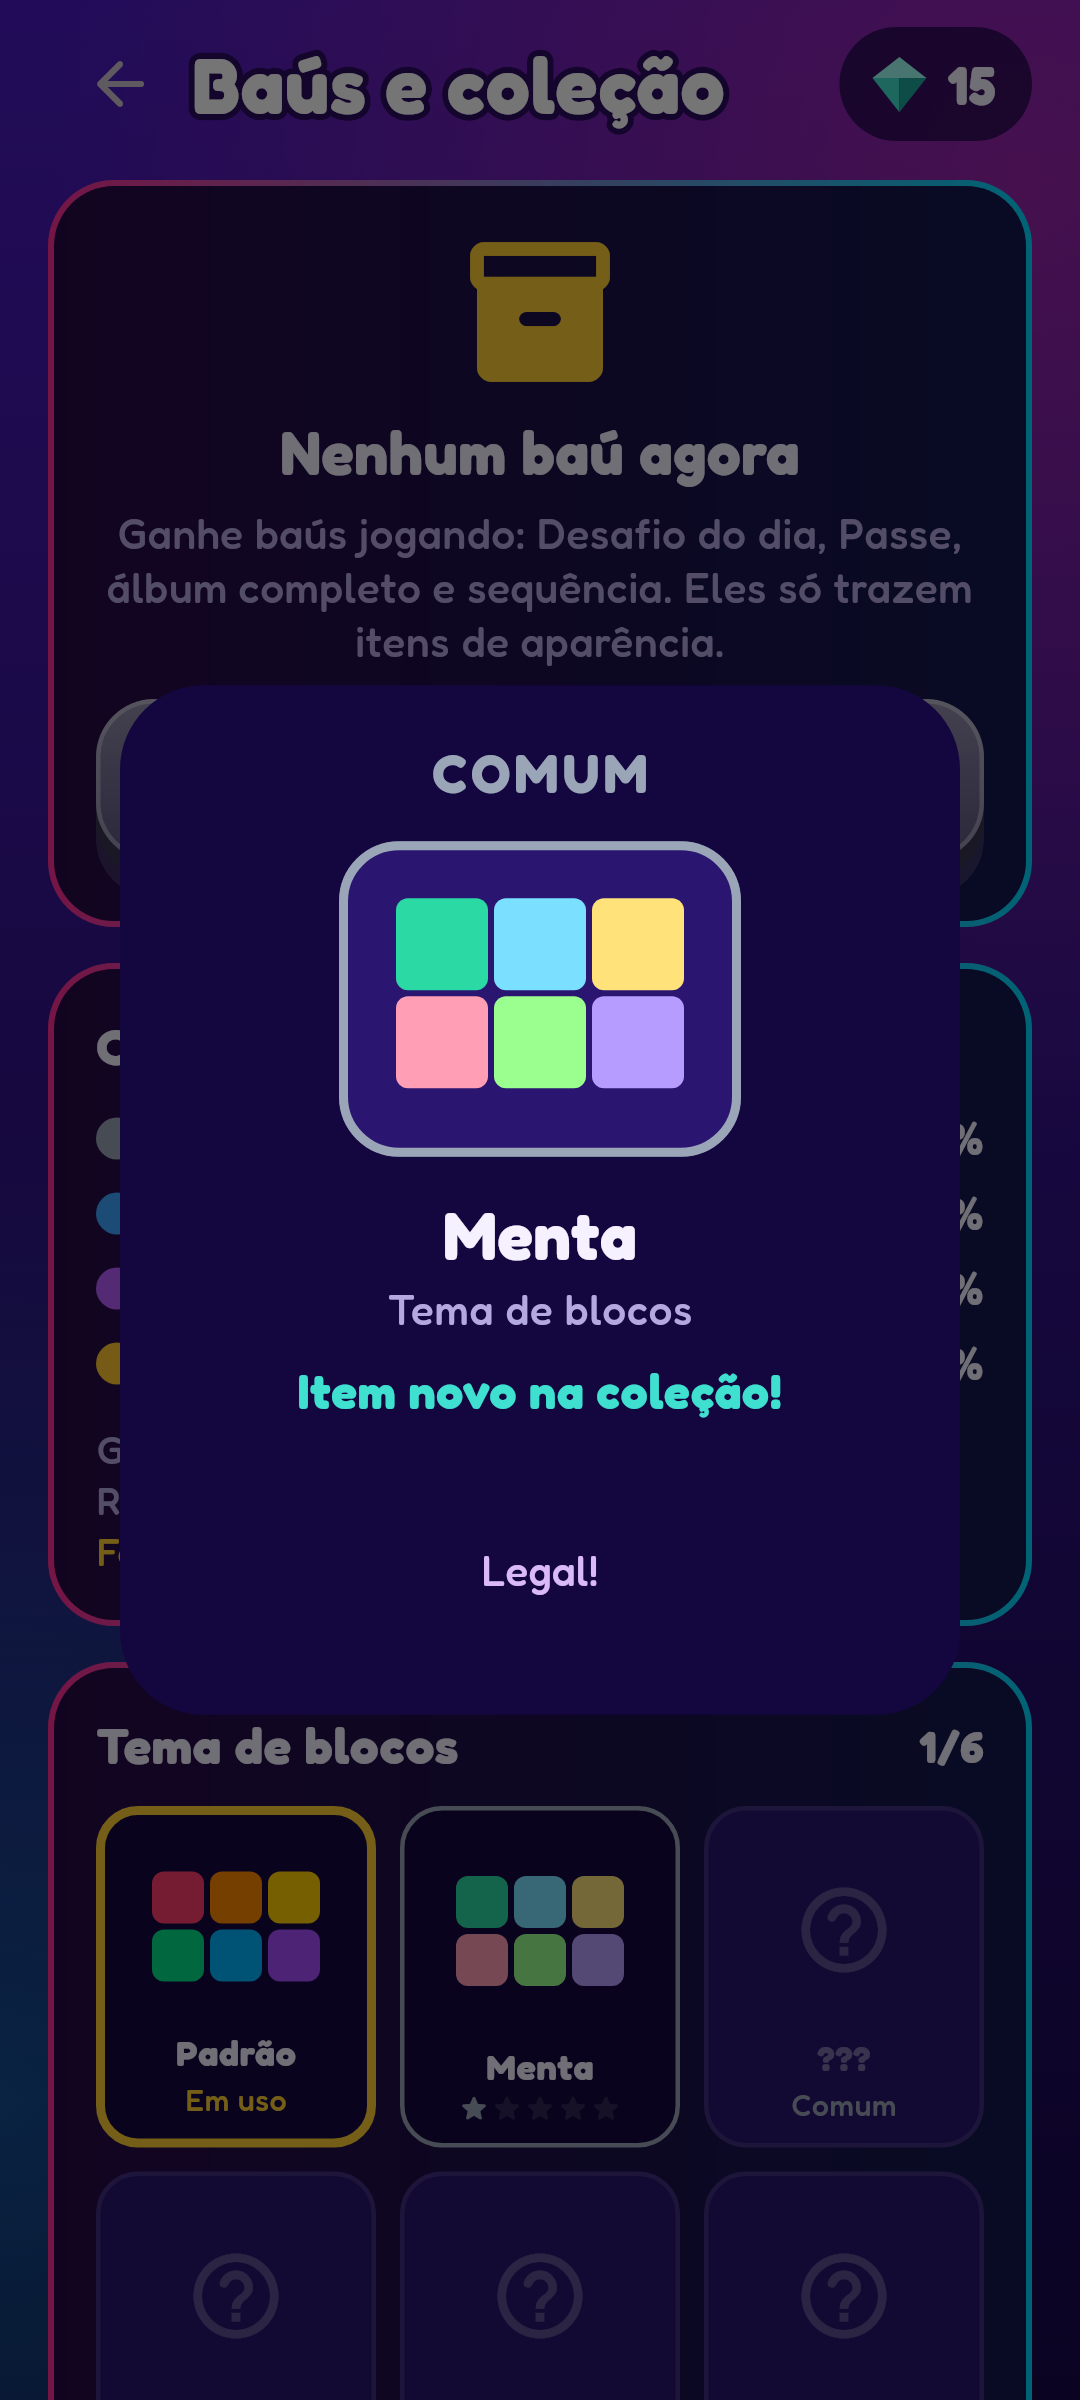
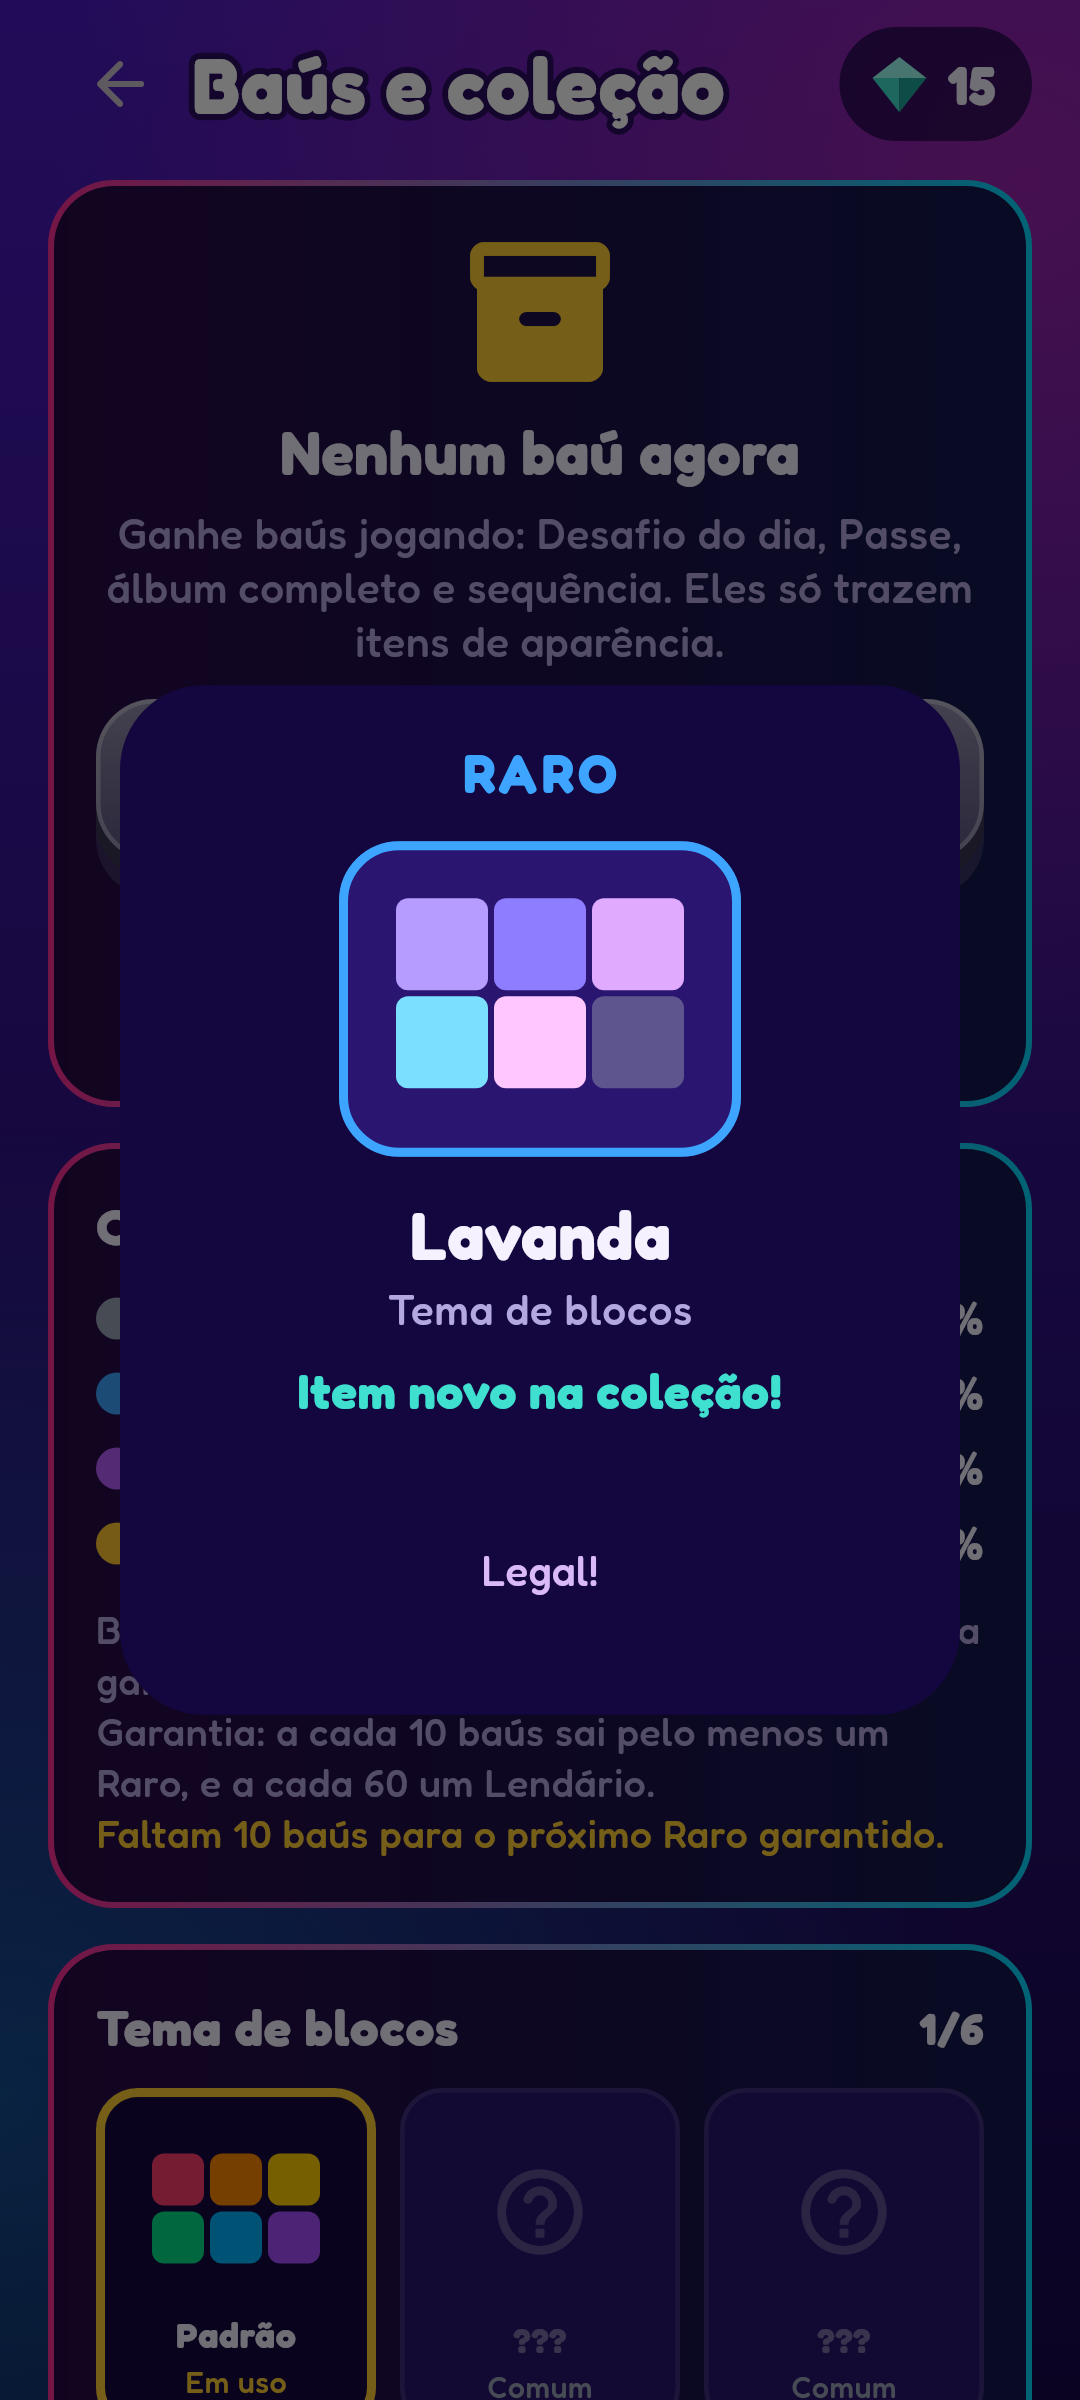
Baú de anúncio: até 3 por dia, só itens Comuns, grátis no Encaixa+
- Ver um anúncio com recompensa abre na hora um baú comum; não gasta baú guardado nem conta na garantia
- Limite diário, anúncio indisponível não abre, Encaixa+ abre sem anúncio; comum repetido no máximo vira 5 gemas
- Em inglês e espanhol; testes de regra e de tela; captura 44; versionCode 17

Claude-Session: https://claude.ai/code/session_0113qfSKSdakLn1Fz3YtvNms

diff --git a/app/test/baus_test.dart b/app/test/baus_test.dart
@@ -2,6 +2,7 @@ import 'package:encaixa/idioma.dart';
 import 'package:encaixa/jogo/bau.dart';
 import 'package:encaixa/jogo/sorteio.dart';
 import 'package:encaixa/jogo/temas.dart';
+import 'package:encaixa/servicos/anuncios.dart';
 import 'package:encaixa/servicos/codigo_progresso.dart';
 import 'package:encaixa/telas/baus_tela.dart';
 import 'package:encaixa/tema.dart';
@@ -203,6 +204,85 @@ void main() {
     });
   });
 
+  group('baú de anúncio', () {
+    test('só sai item Comum, não gasta baú guardado e não mexe na garantia', () async {
+      final s = await servicosDeTeste(valores: {'baus': 2, 'bauSemRaro': 6, 'bauSemLendario': 30});
+      final p = s.progresso;
+      for (var i = 0; i < bausDeAnuncioPorDia; i++) {
+        final r = (await p.abrirBauDeAnuncio(20261112, semente: 100 + i))!;
+        expect(r.item.raridade, Raridade.comum);
+      }
+      expect(p.baus, 2, reason: 'os baús guardados continuam lá');
+      expect(p.estadoDoBau.semRaro, 6, reason: 'não conta na garantia');
+      expect(p.estadoDoBau.semLendario, 30);
+      expect(p.bausAbertos, bausDeAnuncioPorDia);
+    });
+
+    test('limite diário e volta no dia seguinte', () async {
+      final s = await servicosDeTeste();
+      final p = s.progresso;
+      for (var i = 0; i < bausDeAnuncioPorDia; i++) {
+        expect(p.podeAbrirBauDeAnuncio(20261112), isTrue);
+        await p.abrirBauDeAnuncio(20261112, semente: i);
+      }
+      expect(p.podeAbrirBauDeAnuncio(20261112), isFalse);
+      expect(await p.abrirBauDeAnuncio(20261112), isNull);
+      expect(p.podeAbrirBauDeAnuncio(20261113), isTrue);
+    });
+
+    test('comum repetido no nível máximo vira 5 gemas', () async {
+      final comuns = ItensDeBau.da(Raridade.comum);
+      final s = await servicosDeTeste(
+        valores: {
+          'gemas': 0,
+          'bauItens': [for (final i in comuns) '${i.id}:$nivelMaximoDoItem'],
+        },
+      );
+      final r = (await s.progresso.abrirBauDeAnuncio(20261112, semente: 3))!;
+      expect(r.gemas, Raridade.comum.gemasDeRepetido);
+      expect(s.progresso.gemas, Raridade.comum.gemasDeRepetido);
+    });
+
+    testWidgets('na tela: vê o anúncio e abre; anúncio indisponível não abre; Encaixa+ abre sem anúncio', (
+      tester,
+    ) async {
+      telaDeCelular(tester, tamanho: const Size(360, 900));
+      final anuncios = _AnunciosFalsos();
+      final s = await servicosDeTeste(anuncios: anuncios);
+      await tester.pumpWidget(appDeTeste(s, tela: BausTela(servicos: s)));
+      await tester.pump(const Duration(seconds: 1));
+      expect(find.textContaining('Ver anúncio: baú comum'), findsOneWidget);
+      anuncios.disponivel = false;
+      await tester.tap(find.textContaining('Ver anúncio: baú comum'));
+      await tester.pump(const Duration(milliseconds: 400));
+      expect(s.progresso.bausAbertos, 0, reason: 'sem anúncio, sem baú');
+      expect(find.text('Anúncio indisponível agora. Tente de novo.'), findsOneWidget);
+      anuncios.disponivel = true;
+      await tester.pump(const Duration(seconds: 5));
+      await tester.tap(find.textContaining('Ver anúncio: baú comum'));
+      await tester.pump(const Duration(milliseconds: 400));
+      await tester.pump(const Duration(seconds: 2));
+      await tester.pump(const Duration(milliseconds: 300));
+      expect(anuncios.vistos, 1);
+      expect(s.progresso.bausAbertos, 1);
+      await capturar(tester, '44-bau-de-anuncio');
+      await tester.tap(find.text('Legal!'));
+      await tester.pumpAndSettle();
+
+      await s.progresso.definirAssinante(true);
+      await tester.pump();
+      expect(find.textContaining('Baú comum grátis (Encaixa+)'), findsOneWidget);
+      await tester.tap(find.textContaining('Baú comum grátis (Encaixa+)'));
+      await tester.pump(const Duration(milliseconds: 400));
+      await tester.pump(const Duration(seconds: 2));
+      await tester.pump(const Duration(milliseconds: 300));
+      expect(anuncios.vistos, 1, reason: 'assinante não vê anúncio');
+      expect(s.progresso.bausAbertos, 2);
+      await tester.tap(find.text('Legal!'));
+      await tester.pumpAndSettle();
+    });
+  });
+
   testWidgets('tela dos baús e a abertura (visual, em português e inglês)', (tester) async {
     for (final (idioma, nome) in [('pt', '40-baus'), ('en', '41-baus-en')]) {
       Idioma.atual = idioma;
@@ -243,3 +323,20 @@ void main() {
 }
 
 const niveisDoPasseParaTeste = 20;
+
+class _AnunciosFalsos implements Anuncios {
+  bool disponivel = true;
+  int vistos = 0;
+
+  @override
+  Future<void> iniciar() async {}
+
+  @override
+  Future<bool> mostrarPremiado() async {
+    if (disponivel) vistos++;
+    return disponivel;
+  }
+
+  @override
+  Future<void> talvezIntersticial({required int partidasJogadas}) async {}
+}

diff --git a/app/lib/telas/baus_tela.dart b/app/lib/telas/baus_tela.dart
@@ -5,6 +5,7 @@ import 'package:material_ui/material_ui.dart';
 
 import '../app.dart';
 import '../idioma.dart';
+import '../jogo/sorteio.dart';
 import '../jogo/bau.dart';
 import '../servicos/servicos.dart';
 import '../tema.dart';
@@ -35,10 +36,35 @@ class _BausTelaState extends State<BausTela> {
     });
   }
 
+  int get _dia => Sorteio.sementeDoDia(_s.hoje());
+
+  Future<void> _abrirDeAnuncio() async {
+    final p = _s.progresso;
+    if (_abrindo || !p.podeAbrirBauDeAnuncio(_dia)) return;
+    setState(() => _abrindo = true);
+    // Quem tem o Encaixa+ abre sem ver o anúncio.
+    if (!p.assinante && !await _s.anuncios.mostrarPremiado()) {
+      if (mounted) {
+        ScaffoldMessenger.of(context)
+          ..clearSnackBars()
+          ..showSnackBar(SnackBar(content: Text(t('Anúncio indisponível agora. Tente de novo.'))));
+        setState(() => _abrindo = false);
+      }
+      return;
+    }
+    final resultado = await p.abrirBauDeAnuncio(_dia);
+    await _mostrar(resultado);
+  }
+
   Future<void> _abrir() async {
     if (_abrindo || _s.progresso.baus <= 0) return;
     setState(() => _abrindo = true);
-    final resultado = await _s.progresso.abrirBauDeItens();
+    await _mostrar(await _s.progresso.abrirBauDeItens());
+  }
+
+  Future<void> _mostrar(
+    ({ItemDeBau item, int nivelAntes, int nivelDepois, int gemas, bool garantido})? resultado,
+  ) async {
     if (!mounted) return;
     if (resultado != null) {
       HapticFeedback.mediumImpact();
@@ -108,6 +134,24 @@ class _BausTelaState extends State<BausTela> {
                           tamanhoTexto: 20,
                           aoTocar: p.baus > 0 && !_abrindo ? _abrir : null,
                         ),
+                        const SizedBox(height: 10),
+                        OutlinedButton.icon(
+                          style: OutlinedButton.styleFrom(minimumSize: const Size(64, 50)),
+                          onPressed: p.podeAbrirBauDeAnuncio(_dia) && !_abrindo ? _abrirDeAnuncio : null,
+                          icon: Icon(p.assinante ? Icons.workspace_premium_rounded : Icons.smart_display_rounded),
+                          label: Text(
+                            p.podeAbrirBauDeAnuncio(_dia)
+                                ? (p.assinante
+                                      ? t('Baú comum grátis (Encaixa+) · {0} hoje', [
+                                          bausDeAnuncioPorDia - p.bausDeAnuncioNoDia(_dia),
+                                        ])
+                                      : t('Ver anúncio: baú comum · {0} hoje', [
+                                          bausDeAnuncioPorDia - p.bausDeAnuncioNoDia(_dia),
+                                        ]))
+                                : t('Volte amanhã para mais baús comuns'),
+                            textAlign: TextAlign.center,
+                          ),
+                        ),
                       ],
                     ),
                   ),
@@ -162,6 +206,10 @@ class _Chances extends StatelessWidget {
           ),
         ),
       const SizedBox(height: 8),
+      Text(
+        t('Baú de anúncio: só itens Comuns, e não conta na garantia.'),
+        style: const TextStyle(fontSize: 13, height: 1.3, color: Cores.textoFraco),
+      ),
       Text(
         t('Garantia: a cada {0} baús sai pelo menos um Raro, e a cada {1} um Lendário.', [
           garantiaRaro,

diff --git a/app/lib/servicos/progresso.dart b/app/lib/servicos/progresso.dart
@@ -425,19 +425,41 @@ class Progresso extends ChangeNotifier {
   EstadoDoBau get estadoDoBau =>
       EstadoDoBau(semRaro: _prefs.getInt('bauSemRaro') ?? 0, semLendario: _prefs.getInt('bauSemLendario') ?? 0);
 
+  /// Baús de anúncio já abertos hoje (limite: [bausDeAnuncioPorDia]).
+  int bausDeAnuncioNoDia(int dia) => _prefs.getInt('bauAnuncioDia') == dia ? (_prefs.getInt('bauAnuncioQtd') ?? 0) : 0;
+
+  bool podeAbrirBauDeAnuncio(int dia) => bausDeAnuncioNoDia(dia) < bausDeAnuncioPorDia;
+
+  /// Abre um baú de anúncio (só itens Comuns). O chamador já mostrou o anúncio (quem tem Encaixa+ não vê).
+  /// `null` se já abriu todos de hoje.
+  Future<({ItemDeBau item, int nivelAntes, int nivelDepois, int gemas, bool garantido})?> abrirBauDeAnuncio(
+    int dia, {
+    int? semente,
+  }) async {
+    if (!podeAbrirBauDeAnuncio(dia)) return null;
+    await _prefs.setInt('bauAnuncioDia', dia);
+    await _prefs.setInt('bauAnuncioQtd', bausDeAnuncioNoDia(dia) + 1);
+    return _abrir(sortearBauComum(Sorteio(semente ?? DateTime.now().microsecondsSinceEpoch), estadoDoBau));
+  }
+
   /// Abre um baú: sorteia, guarda o item (ou sobe o nível; no máximo vira gemas) e conta a garantia.
   /// `null` se não há baú. [semente] só serve para os testes.
   Future<({ItemDeBau item, int nivelAntes, int nivelDepois, int gemas, bool garantido})?> abrirBauDeItens({
     int? semente,
   }) async {
     if (baus <= 0) return null;
-    final r = sortearBau(Sorteio(semente ?? DateTime.now().microsecondsSinceEpoch), estadoDoBau);
+    await _prefs.setInt('baus', baus - 1);
+    return _abrir(sortearBau(Sorteio(semente ?? DateTime.now().microsecondsSinceEpoch), estadoDoBau));
+  }
+
+  Future<({ItemDeBau item, int nivelAntes, int nivelDepois, int gemas, bool garantido})> _abrir(
+    ResultadoDoSorteio r,
+  ) async {
     final antes = nivelDoItem(r.item.id);
     final depois = antes >= nivelMaximoDoItem ? antes : antes + 1;
     final gemas = antes >= nivelMaximoDoItem ? r.item.raridade.gemasDeRepetido : 0;
     final itens = itensDeBau..[r.item.id] = depois;
     await _prefs.setStringList('bauItens', [for (final e in itens.entries) '${e.key}:${e.value}']);
-    await _prefs.setInt('baus', baus - 1);
     await _prefs.setInt('bauAbertos', bausAbertos + 1);
     await _prefs.setInt('bauSemRaro', r.estado.semRaro);
     await _prefs.setInt('bauSemLendario', r.estado.semLendario);

diff --git a/app/lib/idioma_textos.dart b/app/lib/idioma_textos.dart
@@ -5,6 +5,13 @@ abstract final class Textos {
 }
 
 const _en = <String, String>{
+  'Baú comum grátis (Encaixa+) · {0} hoje': 'Free common chest (Encaixa+) · {0} today',
+  'Ver anúncio: baú comum · {0} hoje': 'Watch an ad: common chest · {0} today',
+  'Volte amanhã para mais baús comuns': 'Come back tomorrow for more common chests',
+  'Baú de anúncio: só itens Comuns, e não conta na garantia.':
+      'Ad chest: Common items only, and it does not count toward the guarantee.',
+  'Também dá para abrir até 3 baús COMUNS por dia vendo um anúncio (com Encaixa+ é sem anúncio).':
+      'You can also open up to 3 COMMON chests a day by watching an ad (no ad with Encaixa+).',
   // Baús e coleção
   'Baús e coleção': 'Chests and collection',
   'Nenhum baú agora': 'No chests right now',
@@ -664,6 +671,13 @@ const _en = <String, String>{
 };
 
 const _es = <String, String>{
+  'Baú comum grátis (Encaixa+) · {0} hoje': 'Cofre común gratis (Encaixa+) · {0} hoy',
+  'Ver anúncio: baú comum · {0} hoje': 'Ver un anuncio: cofre común · {0} hoy',
+  'Volte amanhã para mais baús comuns': 'Vuelve mañana para más cofres comunes',
+  'Baú de anúncio: só itens Comuns, e não conta na garantia.':
+      'Cofre de anuncio: solo artículos Comunes, y no cuenta para la garantía.',
+  'Também dá para abrir até 3 baús COMUNS por dia vendo um anúncio (com Encaixa+ é sem anúncio).':
+      'También puedes abrir hasta 3 cofres COMUNES al día viendo un anuncio (con Encaixa+ es sin anuncio).',
   // Baús e coleção
   'Baús e coleção': 'Cofres y colección',
   'Nenhum baú agora': 'Ningún cofre ahora',

diff --git a/app/lib/jogo/bau.dart b/app/lib/jogo/bau.dart
@@ -48,6 +48,9 @@ class ItemDeBau {
 /// Repetir um item o sobe de nível, até aqui. No máximo, vira gemas.
 const nivelMaximoDoItem = 5;
 
+/// Baús de anúncio por dia (um anúncio com recompensa abre um baú só de itens Comuns). Quem tem o Encaixa+ não vê o anúncio.
+const bausDeAnuncioPorDia = 3;
+
 /// Garantias: a cada [garantiaRaro] baús, pelo menos um raro ou melhor; a cada [garantiaLendario], um lendário.
 const garantiaRaro = 10;
 const garantiaLendario = 60;
@@ -118,6 +121,12 @@ class ResultadoDoSorteio {
 
   /// Este baú estava na garantia (raro ou melhor, ou lendário, de qualquer forma).
   final bool garantido;
+}
+
+/// Baú de anúncio: só itens Comuns. Não mexe na garantia dos baús normais (ela só conta os baús normais).
+ResultadoDoSorteio sortearBauComum(Sorteio sorteio, EstadoDoBau estado) {
+  final grupo = ItensDeBau.da(Raridade.comum);
+  return ResultadoDoSorteio(grupo[sorteio.proximo(grupo.length)], estado, garantido: false);
 }
 
 /// Sorteia um item. Chances: [Raridade.chance]; a garantia vale no baú de número [garantiaRaro] e [garantiaLendario].

diff --git a/app/lib/widgets/dicas.dart b/app/lib/widgets/dicas.dart
@@ -136,6 +136,7 @@ abstract final class Dicas {
 
   static const baus = Dica('baus', 'Baús e coleção', Icons.inventory_2_rounded, Color(0xFFFFC62E), [
     'Você ganha baús jogando: Desafio do dia, níveis 5, 10, 15 e 20 do Passe, álbum completo e 14 e 30 dias de sequência.',
+    'Também dá para abrir até 3 baús COMUNS por dia vendo um anúncio (com Encaixa+ é sem anúncio).',
     'Cada baú traz um item de APARÊNCIA: tema de blocos, moldura do tabuleiro ou cor do Quadrinho. Nada muda a pontuação.',
     'As chances de cada raridade ficam sempre na tela do baú, com garantia de Raro e de Lendário.',
     'Item repetido sobe de nível (até 5 estrelas) e, no máximo, vira gemas.',

diff --git a/app/test/suporte/capturas.dart b/app/test/suporte/capturas.dart
@@ -43,13 +43,14 @@ Future<Servicos> servicosDeTeste({
   CopiaAutomatica? copia,
   Lembrete lembrete = const SemLembrete(),
   Ranking ranking = const SemRanking(),
+  Anuncios? anuncios,
 }) async {
   SharedPreferences.setMockInitialValues(valores);
   final progresso = await Progresso.carregar();
   DateTime agora() => hoje ?? DateTime(2026, 11, 12, 9);
   return Servicos(
     progresso: progresso,
-    anuncios: SemAnuncios(),
+    anuncios: anuncios ?? SemAnuncios(),
     compras: ComprasFicticias(progresso),
     hoje: agora,
     mostrarPresenteAoAbrir: presente,

diff --git a/docs/JOGO.md b/docs/JOGO.md
@@ -190,5 +190,9 @@ menos um Raro (ou melhor) e a cada 60 um Lendário. **Repetido:** sobe de nível
 (5, 15, 40 ou 100 conforme a raridade). 18 itens: 6 temas, 6 molduras e 6 cores do mascote; "Padrão" volta ao visual
 original. Regras em `app/lib/jogo/bau.dart`; tela em `app/lib/telas/baus_tela.dart`.
 
+**Baú de anúncio:** até **3 por dia**, o jogador escolhe ver um anúncio com recompensa e abre na hora um baú **só de itens
+Comuns** (quem tem o Encaixa+ abre sem ver o anúncio). Ele não gasta baú guardado e **não conta na garantia**. Comum repetido
+no nível máximo vira 5 gemas.
+
 **Fora de propósito:** venda de baús por dinheiro, habilidades que mudam o jogo e itens "únicos no mundo". Motivos e
 decisões em aberto: issue "Baús com itens raros" (loot box tem regra legal e a Play exige mostrar as chances).
